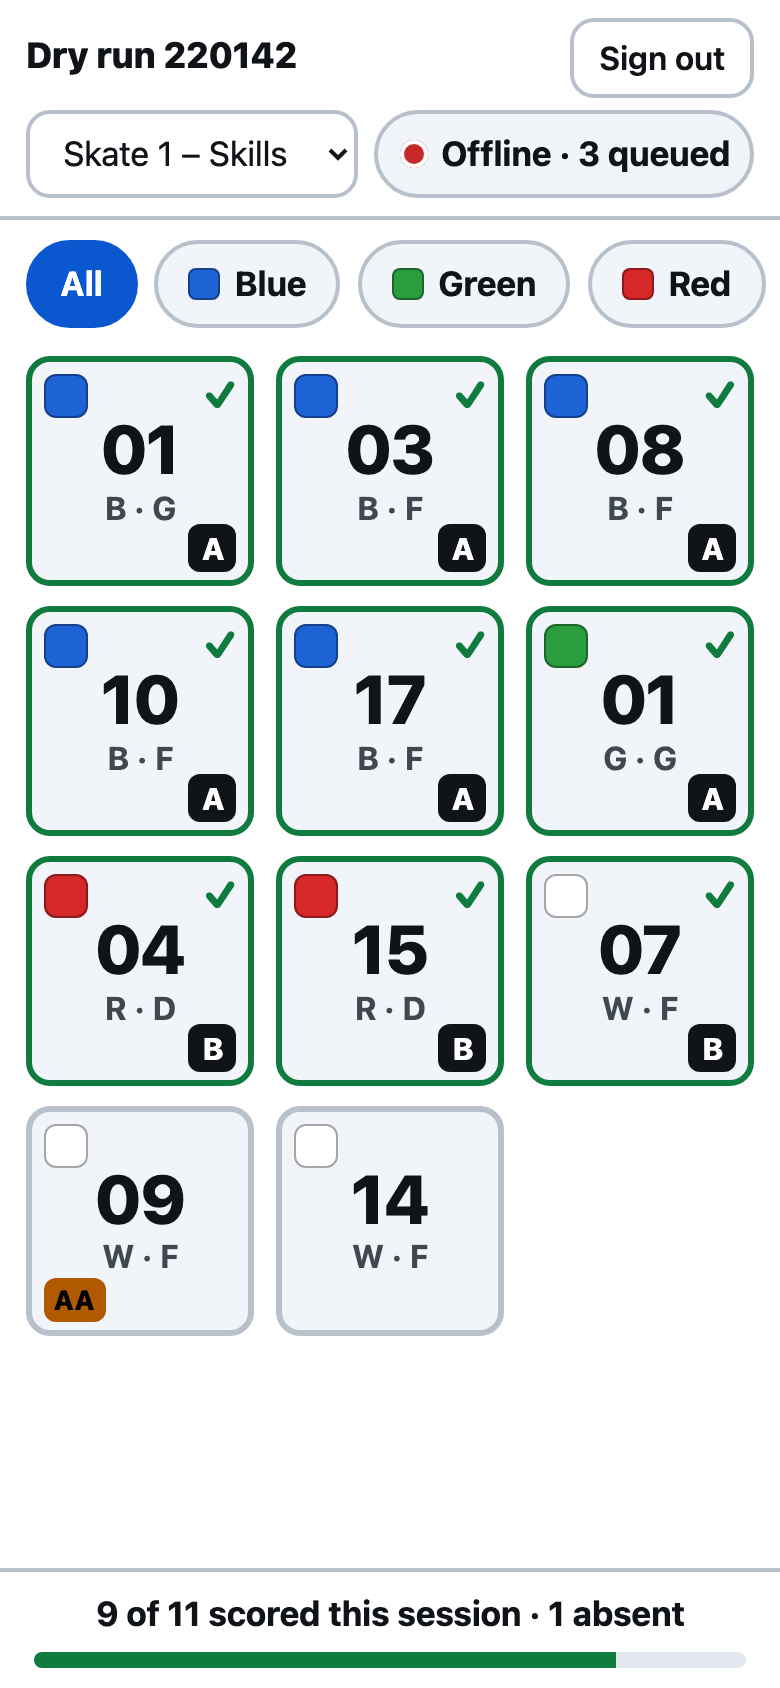
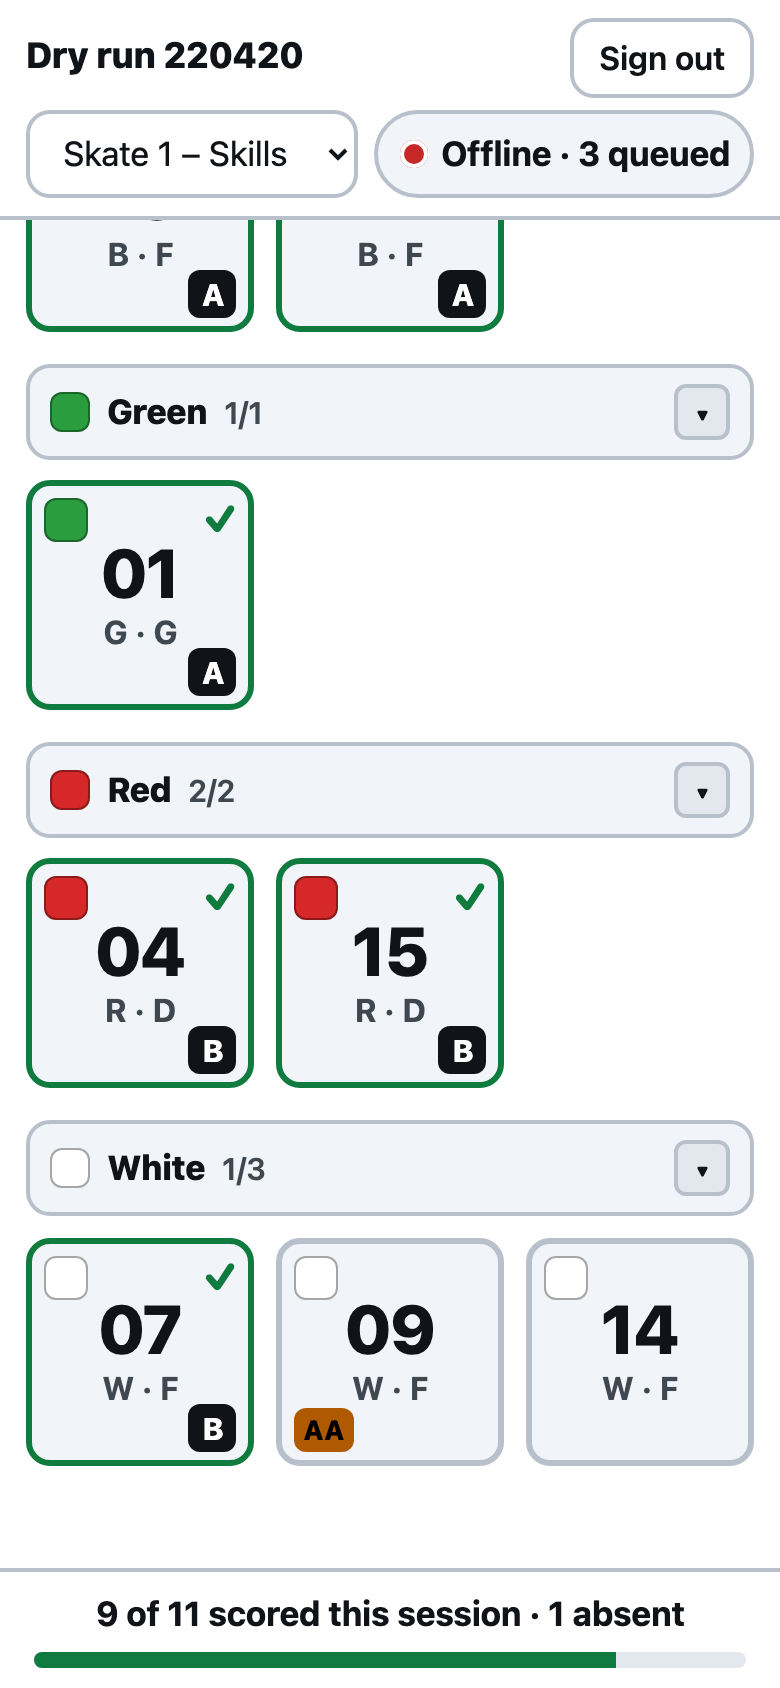
Collapsible colour/team groups in the evaluator grid
The grid is grouped by the jersey colour worn this session (labelled with the
team in a scrimmage); each header shows scored/total and folds on tap, remembered
per tryout on the device. Dry run folds White, reloads, and expands it again.

diff --git a/web/js/evaluate.js b/web/js/evaluate.js
@@ -180,6 +180,16 @@ function filteredPlayers() {
     .sort((a, b) => (colourOf(a) < colourOf(b) ? -1 : colourOf(a) > colourOf(b) ? 1 : a.number - b.number));
 }
 
+// Which colour groups this evaluator has folded, remembered per tryout on this phone.
+const foldKey = () => `ui:folded:${state.tryout?.id}`;
+const folded = () => store.get(foldKey(), {});
+function toggleFold(colour) {
+  const f = folded();
+  if (f[colour]) delete f[colour]; else f[colour] = true;
+  store.set(foldKey(), f);
+  renderGrid();
+}
+
 function renderGrid() {
   const grid = $("grid");
   grid.innerHTML = "";
@@ -188,7 +198,31 @@ function renderGrid() {
     grid.append(el("p", { class: "muted", style: "grid-column:1/-1;text-align:center;padding:2rem 0" }, state.tryout ? "No players match this filter." : ""));
     return;
   }
-  for (const p of players) {
+  // One collapsible group per jersey colour (labelled with the team in a scrimmage). Tap the header to fold it.
+  const groups = new Map();
+  for (const p of players) { const c = colourOf(p); if (!groups.has(c)) groups.set(c, []); groups.get(c).push(p); }
+  const f = folded();
+  for (const [colour, list] of groups) {
+    const teams = [...new Set(list.map((p) => teamNameOf(currentSession(), p)).filter(Boolean))];
+    const scored = list.filter((p) => hasContent(state.evals[p.playerNumber])).length;
+    const isFolded = !!f[colour];
+    grid.append(el("button", {
+      class: "group", type: "button", "aria-expanded": String(!isFolded), "data-group": colour,
+      "aria-label": `${colour}${teams.length ? ` ${teams.join("/")}` : ""}, ${scored} of ${list.length} scored, ${isFolded ? "collapsed" : "expanded"}`,
+      onclick: () => toggleFold(colour),
+    },
+      el("span", { class: "sw", style: `background:${swatchColour(colour)}` }),
+      `${colour}${teams.length ? ` · ${teams.join("/")}` : ""}`,
+      el("span", { class: "stat" }, `${scored}/${list.length}`),
+      el("span", { class: "chev", "aria-hidden": "true" }, "▾"),
+    ));
+    if (isFolded) continue;
+    for (const p of list) renderCard(grid, p);
+  }
+}
+
+function renderCard(grid, p) {
+  {
     const e = state.evals[p.playerNumber];
     const done = hasContent(e);
     const btn = el("button", {

diff --git a/tests/e2e/dry-run.js b/tests/e2e/dry-run.js
@@ -255,6 +255,18 @@ try {
   assert(/of 11 scored/.test(await ev.locator("#progressText").textContent()) && /1 absent/.test(await ev.locator("#progressText").textContent()), "progress excludes the absent player");
   log("evaluator signed in, sees 11 players, AA badge visible, absent player hidden");
 
+  // Colour groups fold from their header and stay folded across a reload
+  const groupsBefore = await ev.locator(".group").allTextContents();
+  assert(groupsBefore.length >= 3, `grid grouped by colour: ${groupsBefore.join(" | ")}`);
+  await ev.locator('.group[data-group="White"]').click();
+  assert((await ev.locator('.player[aria-label^="W-"]').count()) === 0, "White cards hidden when the group is folded");
+  assert((await ev.locator('.player[aria-label^="R-"]').count()) > 0, "other groups still visible");
+  await ev.reload();
+  await ev.locator('.group[data-group="White"][aria-expanded="false"]').waitFor({ timeout: 20000 });
+  await ev.locator('.group[data-group="White"]').click();
+  await ev.locator('.player[aria-label^="W-07"]').waitFor({ timeout: 10000 });
+  log("evaluator colour groups fold, survive reload, expand again");
+
   async function scorePlayer(index, value, tier) {
     const card = ev.locator(".player").nth(index);
     const label = await card.getAttribute("aria-label");

diff --git a/web/css/app.css b/web/css/app.css
@@ -119,6 +119,14 @@ textarea { min-height: 88px; resize: vertical; }
 .player.done { border-color: var(--ok); }
 .player.inactive { opacity: .45; }
 
+/* Grid groups (one per jersey colour / team), collapsible */
+.group { grid-column: 1 / -1; display: flex; align-items: center; gap: .5rem; min-height: var(--tap); margin-top: .35rem;
+  padding: 0 .6rem; border: 2px solid var(--border); border-radius: var(--radius); background: var(--surface); font-weight: 800; cursor: pointer; user-select: none; -webkit-user-select: none; }
+.group .sw { width: 20px; height: 20px; border-radius: 6px; border: 1px solid rgba(0,0,0,.35); }
+.group .chev { margin-left: auto; width: 28px; height: 28px; border-radius: 6px; border: 2px solid var(--border); background: var(--surface-2); text-align: center; line-height: 24px; font-size: .9rem; transition: transform .15s; }
+.group .stat { font-weight: 600; color: var(--muted); font-size: .9rem; border: 0; padding: 0; min-width: 0; }
+.group[aria-expanded="false"] .chev { transform: rotate(-90deg); }
+
 /* Progress footer */
 .progress { position: fixed; left: 0; right: 0; bottom: 0; z-index: 15; background: var(--bg); border-top: 2px solid var(--border);
   padding: .6rem 1rem calc(.6rem + env(safe-area-inset-bottom)); font-weight: 700; text-align: center; }
